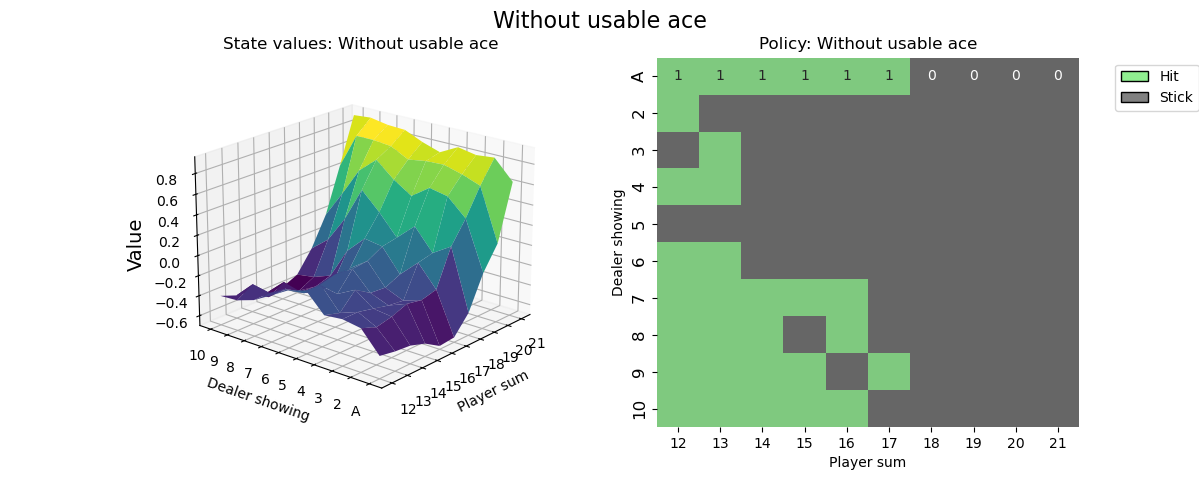
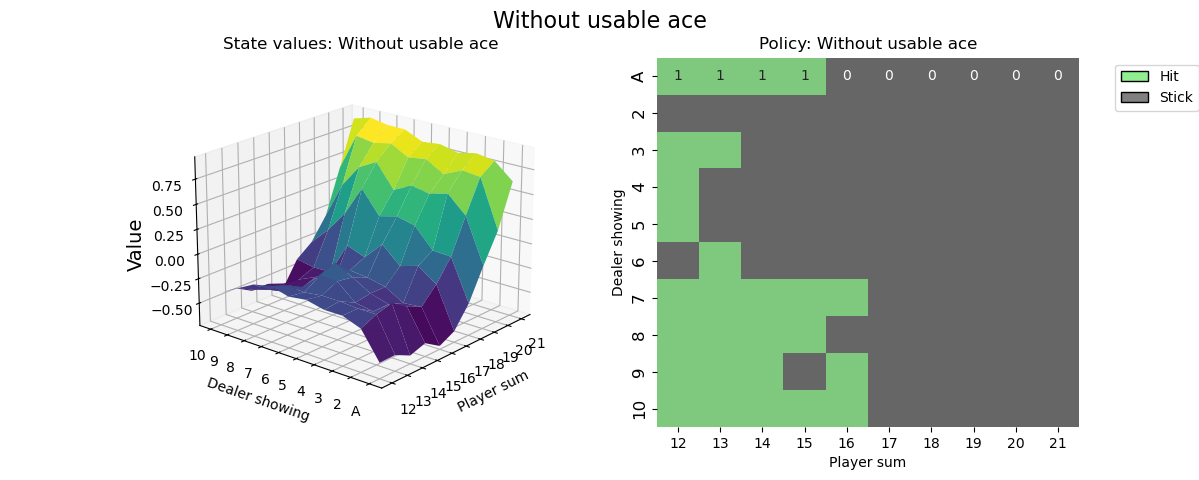
Save model using json

diff --git a/Play_Blackjack.py b/Play_Blackjack.py
@@ -1,17 +1,15 @@
 import gymnasium as gym
-import pickle
+import json
 import numpy as np
 
-###################
-#     BlackjackAgent
-###################
 class BlackjackAgent:
     def __init__(self, q_values):
         self.q_values = q_values
 
     def get_action(self, obs):
-        if obs in self.q_values:
-            return int(np.argmax(self.q_values[obs]))
+        obs_str = str(obs)  # Convert the observation to string to match JSON keys
+        if obs_str in self.q_values:
+            return int(np.argmax(self.q_values[obs_str]))
         else:
             return np.random.choice([0, 1])  # Random action if the state is unknown
 
@@ -19,11 +17,13 @@ class BlackjackAgent:
 #     main
 ###################
 def main():
-    with open('blackjack_model.pkl', 'rb') as f:
-        q_values = pickle.load(f)
+    # Load the Q-values from the JSON file
+    with open('blackjack_model.json', 'r') as f:
+        q_values = json.load(f)
 
     agent = BlackjackAgent(q_values=q_values)
-    env = gym.make('Blackjack-v1', natural=False, sab=False)
+    env = gym.make('Blackjack-v1', render_mode="human", natural=False, sab=False)
+    # Render modes: "human" or "rgb_array"
 
     obs, info = env.reset(seed=None)
     done = False

diff --git a/Train_Blackjack.py b/Train_Blackjack.py
@@ -5,7 +5,7 @@ import numpy as np
 import seaborn as sns
 import matplotlib.pyplot as plt
 from matplotlib.patches import Patch # 2D artist 
-import pickle
+import json
 
 
 
@@ -64,10 +64,10 @@ def main():
         agent.decay_epsilon()
 
     # Save the model
-    with open('blackjack_model.pkl', 'wb') as f:
-        pickle.dump(agent.q_values, f)
-    msg.printInfo("Model saved as 'blackjack_model.pkl'")
-
+    q_values_json = convert_q_values(agent.q_values)
+    with open('blackjack_model.json', 'w') as f:
+        json.dump(q_values_json, f)
+    msg.printInfo("Model saved as 'blackjack_model.json'")
     # Visualize training
     msg.printGreen("Visualize training")
     rolling_length = 500 #Defines the window size for computing the moving average
@@ -339,6 +339,13 @@ class MsgServer:
     def printBold(self, msg):
         print(f'{self.BOLD}{self.algName:<16} {"INFO":<12} {msg}{self.EndColor}')
 
+
+def default_q_values():
+    return np.zeros(2)  # Assuming 2 actions (hit or stick)
+
+def convert_q_values(q_values):
+    """Convert q_values to a JSON-serializable format."""
+    return {str(k): v.tolist() for k, v in q_values.items()}
 
 if __name__ == '__main__':
   main()

diff --git a/README.md b/README.md
@@ -1,3 +1,10 @@
+# Ussage
+To train and save the model
+    python Train_Blackjack.py
+To play it
+    python Play_Blackjack.py
+
+
 # Blackjack
 
 Training a reinforced learning model to learn to play Blackjack. It is based on Farama's Gymnasium [ToyText](https://gymnasium.farama.org/environments/toy_text/blackjack/) environment.
@@ -25,7 +32,6 @@ If neither the player nor the dealer busts, the outcome (win, lose, draw) is dec
  
 ### Action space
 Two possible actions: stick (0) or hit (1).
-
   
 
 ### Observation Space
@@ -52,3 +58,18 @@ Note: An ace will always be counted as usable (11) unless it busts the player.
 The finish if the following happens:
 	 a)   The player hits and the sum of hand exceeds 21.
 	 b)  The player sticks.
+
+
+# Train
+![training_progress](https://github.com/MartinezAgullo/Blackjack_RL/blob/main/training_progress.png)
+
+
+
+
+# Policy
+With usable ace:
+![Policy](https://github.com/MartinezAgullo/Blackjack_RL/blob/main/Policy_withOutUsableAce.png)
+
+
+Without usable ace:
+![Policy](https://github.com/MartinezAgullo/Blackjack_RL/blob/main/Policy_withOutUsableAce.png)
